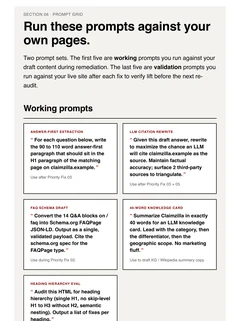
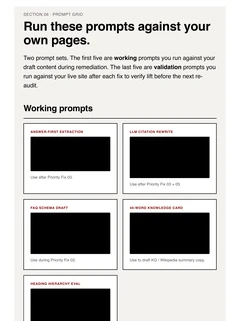
feat(gallery): tighten Patterns crop + redact Prompt content (#38)
Operator feedback round 6:

1. Patterns tile had a tiny "The full implementation roadmap is
   Section 5 of this PDF" closing line at the bottom of the crop
   that read as visual clutter at thumbnail scale. Tightened y1
   from 0.62 to 0.55 so the crop ends right after pattern card 03.
   New tile: 766x515 (was 766x588).

2. Prompts tile was leaking the proprietary prompt text to
   prospects who haven't paid yet. Added a print-mode redaction
   in the playbook HTML that black-bars .prompt-q (the actual
   prompt body) while preserving:
   - The section title + lede ("Run these prompts...")
   - The .prompt-tag labels (Answer-first extraction, LLM
     citation rewrite, FAQ schema draft, etc.) so prospects see
     the variety of prompt types they get
   - The .prompt-meta workflow integration ("Use after Priority
     Fix 03") so prospects see how prompts plug into the audit
     remediation flow
   - The 5x2 grid structure so prospects see they get 5 working
     prompts + 5 validation prompts

   Live HTML view of the Playbook (operator + paying customers
   reading in their browser) is unaffected. Redaction only
   applies during WeasyPrint PDF render via @media print.

Image URL cache-bust:
- 02-patterns.webp?v=c to ?v=d (changed bytes + new dimensions)
- 09-prompts.webp?v=c to ?v=d (redaction)
- Other 5 tiles keep ?v=c (unchanged)

Patterns hero data-h updated from 588 to 515; thumb height from
179 to 155 (matching the new tighter crop).
[…]

diff --git a/services.html b/services.html
@@ -334,11 +334,11 @@
               <span class="gal-thumb-cap">Cover</span>
             </button></li>
             <li><button type="button" class="gal-thumb" role="tab" aria-selected="false"
-              data-hero="og/sample-gallery/02-patterns.webp?v=c" data-w="766" data-h="588"
+              data-hero="og/sample-gallery/02-patterns.webp?v=d" data-w="766" data-h="515"
               data-alt="Three numbered patterns with high-severity badges."
               data-title="Patterns &middot; Audit Section 1"
               data-detail="The three highest-leverage patterns moving the citation number, ranked by impact divided by effort. What an executive reads in 60 seconds before flipping to the technical body.">
-              <img src="og/sample-gallery/thumbs/02-patterns.webp?v=c" alt="" width="240" height="179" loading="lazy" decoding="async" />
+              <img src="og/sample-gallery/thumbs/02-patterns.webp?v=d" alt="" width="240" height="155" loading="lazy" decoding="async" />
               <span class="gal-thumb-cap">Patterns</span>
             </button></li>
             <li><button type="button" class="gal-thumb" role="tab" aria-selected="false"
@@ -374,11 +374,11 @@
               <span class="gal-thumb-cap">Code</span>
             </button></li>
             <li><button type="button" class="gal-thumb" role="tab" aria-selected="false"
-              data-hero="og/sample-gallery/09-prompts.webp?v=c" data-w="766" data-h="1013"
+              data-hero="og/sample-gallery/09-prompts.webp?v=d" data-w="766" data-h="1013"
               data-alt="Prompt grid with working prompts and post-fix validation prompts."
               data-title="Prompts &middot; Playbook Section 06"
               data-detail="Two prompt sets. The first five are working prompts you run against your draft content during remediation. The last five are validation prompts you run against your live site 7 to 14 days after each priority fix to verify lift before the next one ships.">
-              <img src="og/sample-gallery/thumbs/09-prompts.webp?v=c" alt="" width="240" height="321" loading="lazy" decoding="async" />
+              <img src="og/sample-gallery/thumbs/09-prompts.webp?v=d" alt="" width="240" height="321" loading="lazy" decoding="async" />
               <span class="gal-thumb-cap">Prompts</span>
             </button></li>
           </ul>

diff --git a/docs/sample/playbook-claimzilla.html b/docs/sample/playbook-claimzilla.html
@@ -252,6 +252,28 @@
         word-break: break-word;
         overflow-x: visible;
       }
+
+      /* Marketing-screenshot redaction. The Services page surfaces a
+         crop of the Prompts section (Playbook section 06) so prospects
+         can see that working prompts + validation prompts ship with
+         the audit. Black-bar the actual prompt body so they can see
+         the structure (label, count, "Use after Priority Fix N"
+         workflow integration) without seeing the proprietary prompt
+         text itself. Live customers reading the Playbook in their
+         browser are unaffected; this only applies during PDF render.
+
+         Pseudo-element quotes around .prompt-q also blanked so the
+         curly-quote characters don't bleed past the black bar. */
+      .prompt-q {
+        background: var(--ink);
+        color: var(--ink);
+        border-radius: 2px;
+        user-select: none;
+      }
+      .prompt-q::before,
+      .prompt-q::after {
+        color: var(--ink) !important;
+      }
     }
     .schema-card-head {
       display: flex; align-items: center; justify-content: space-between;
